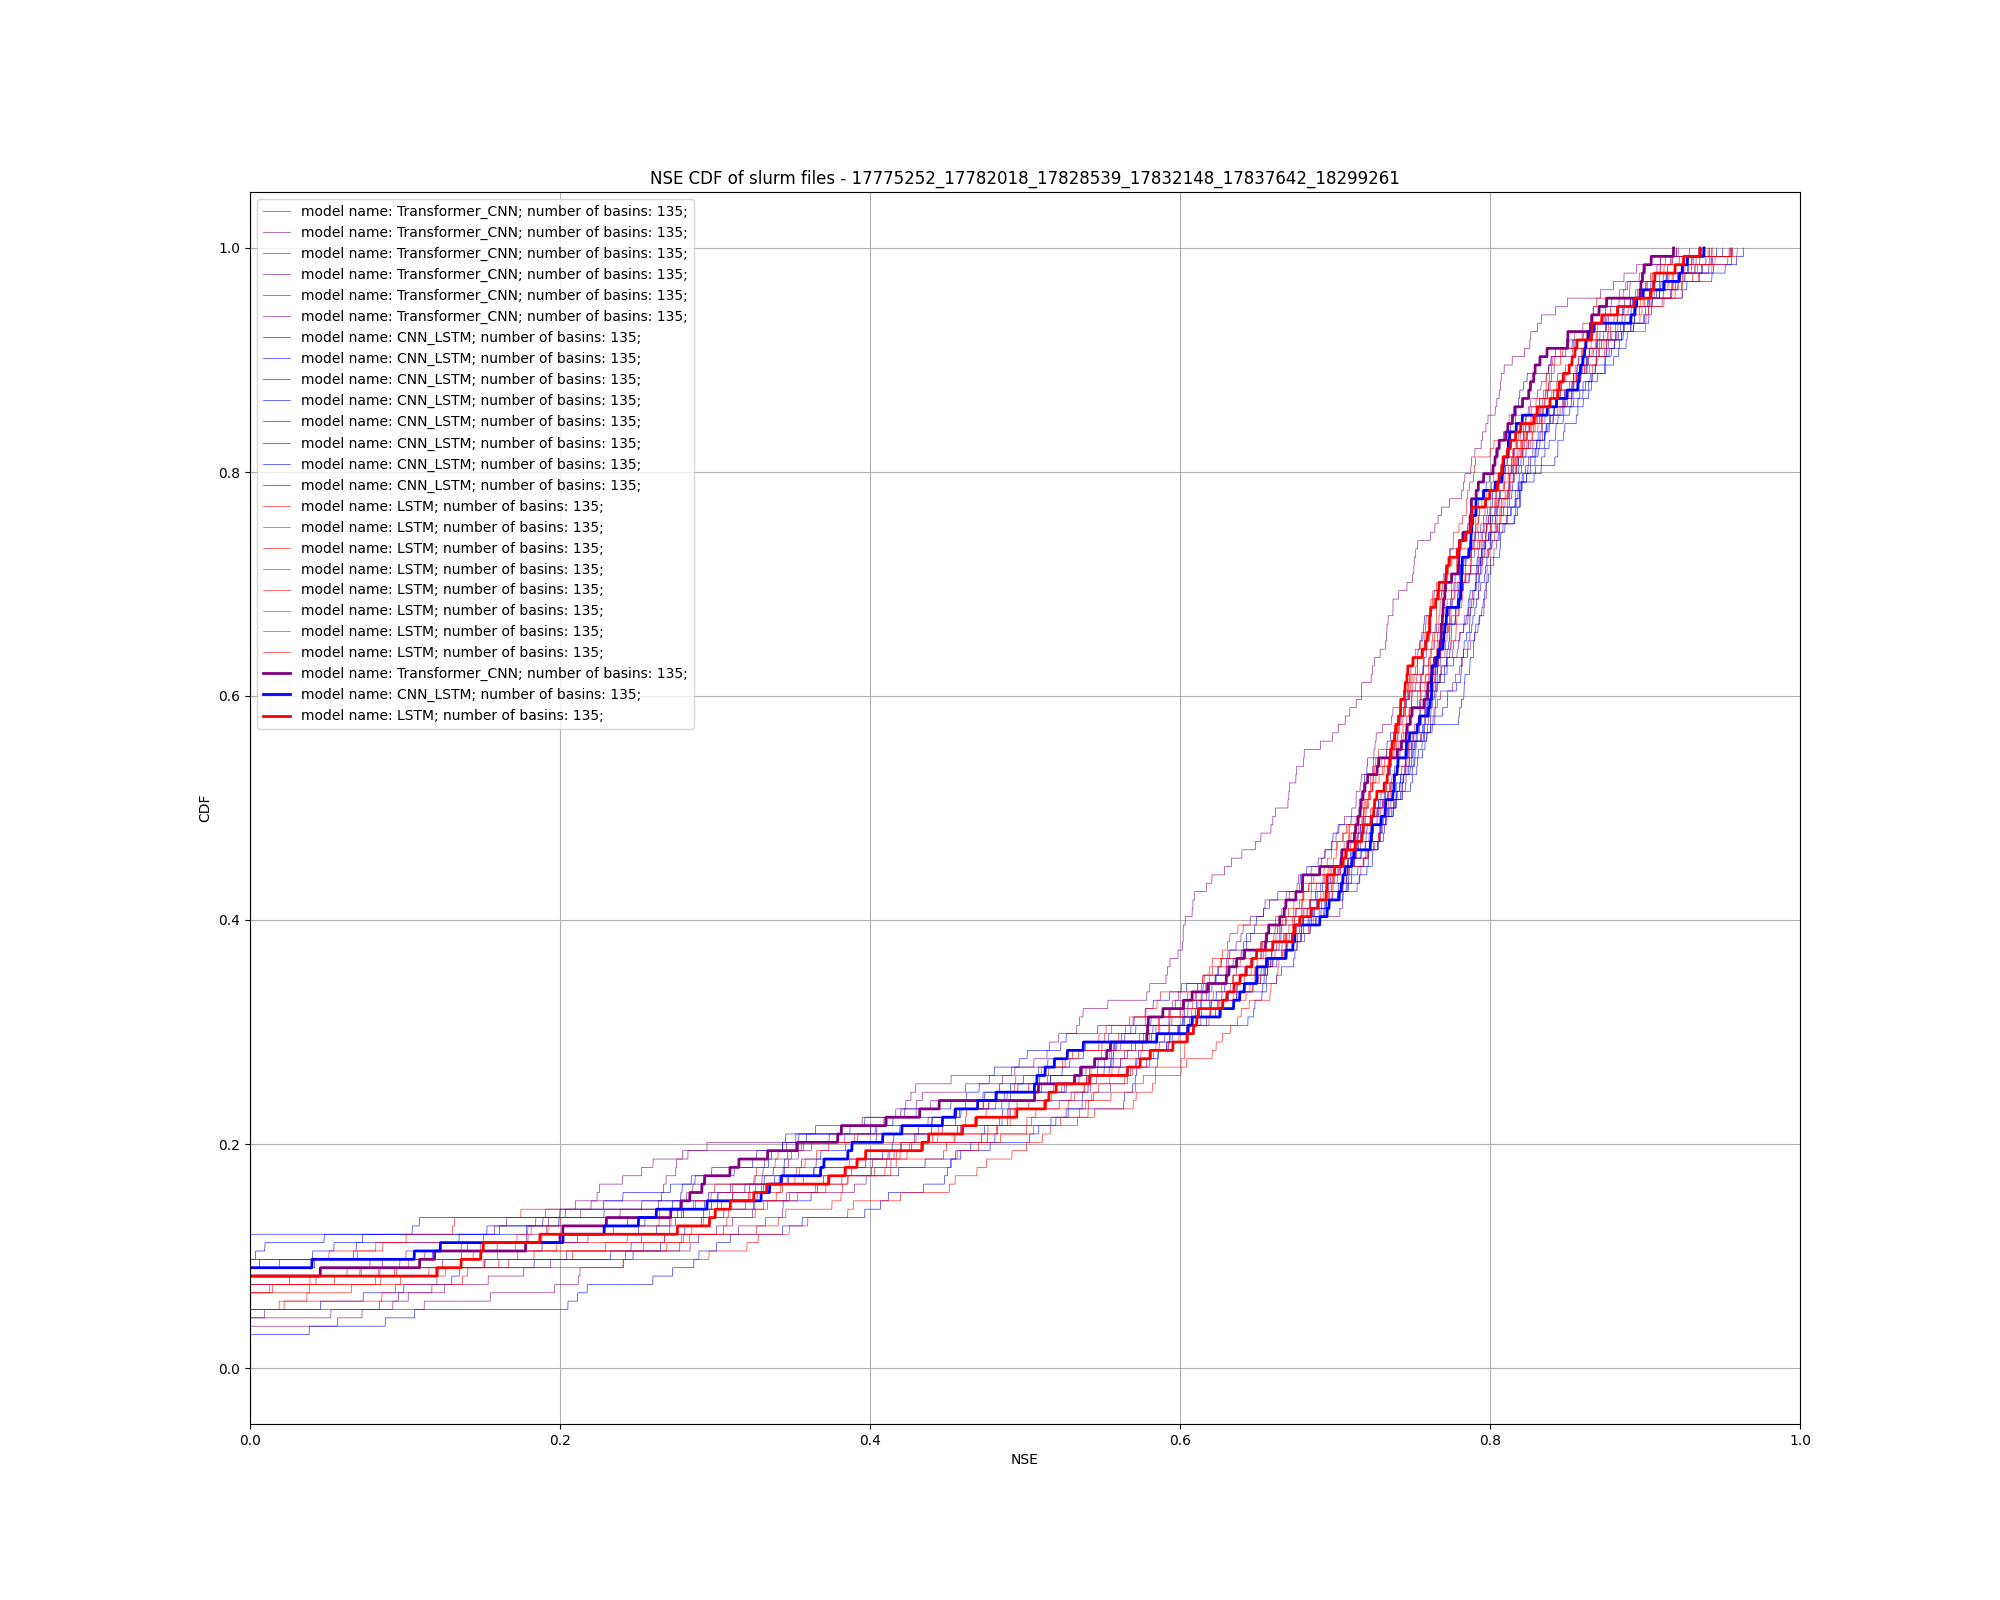
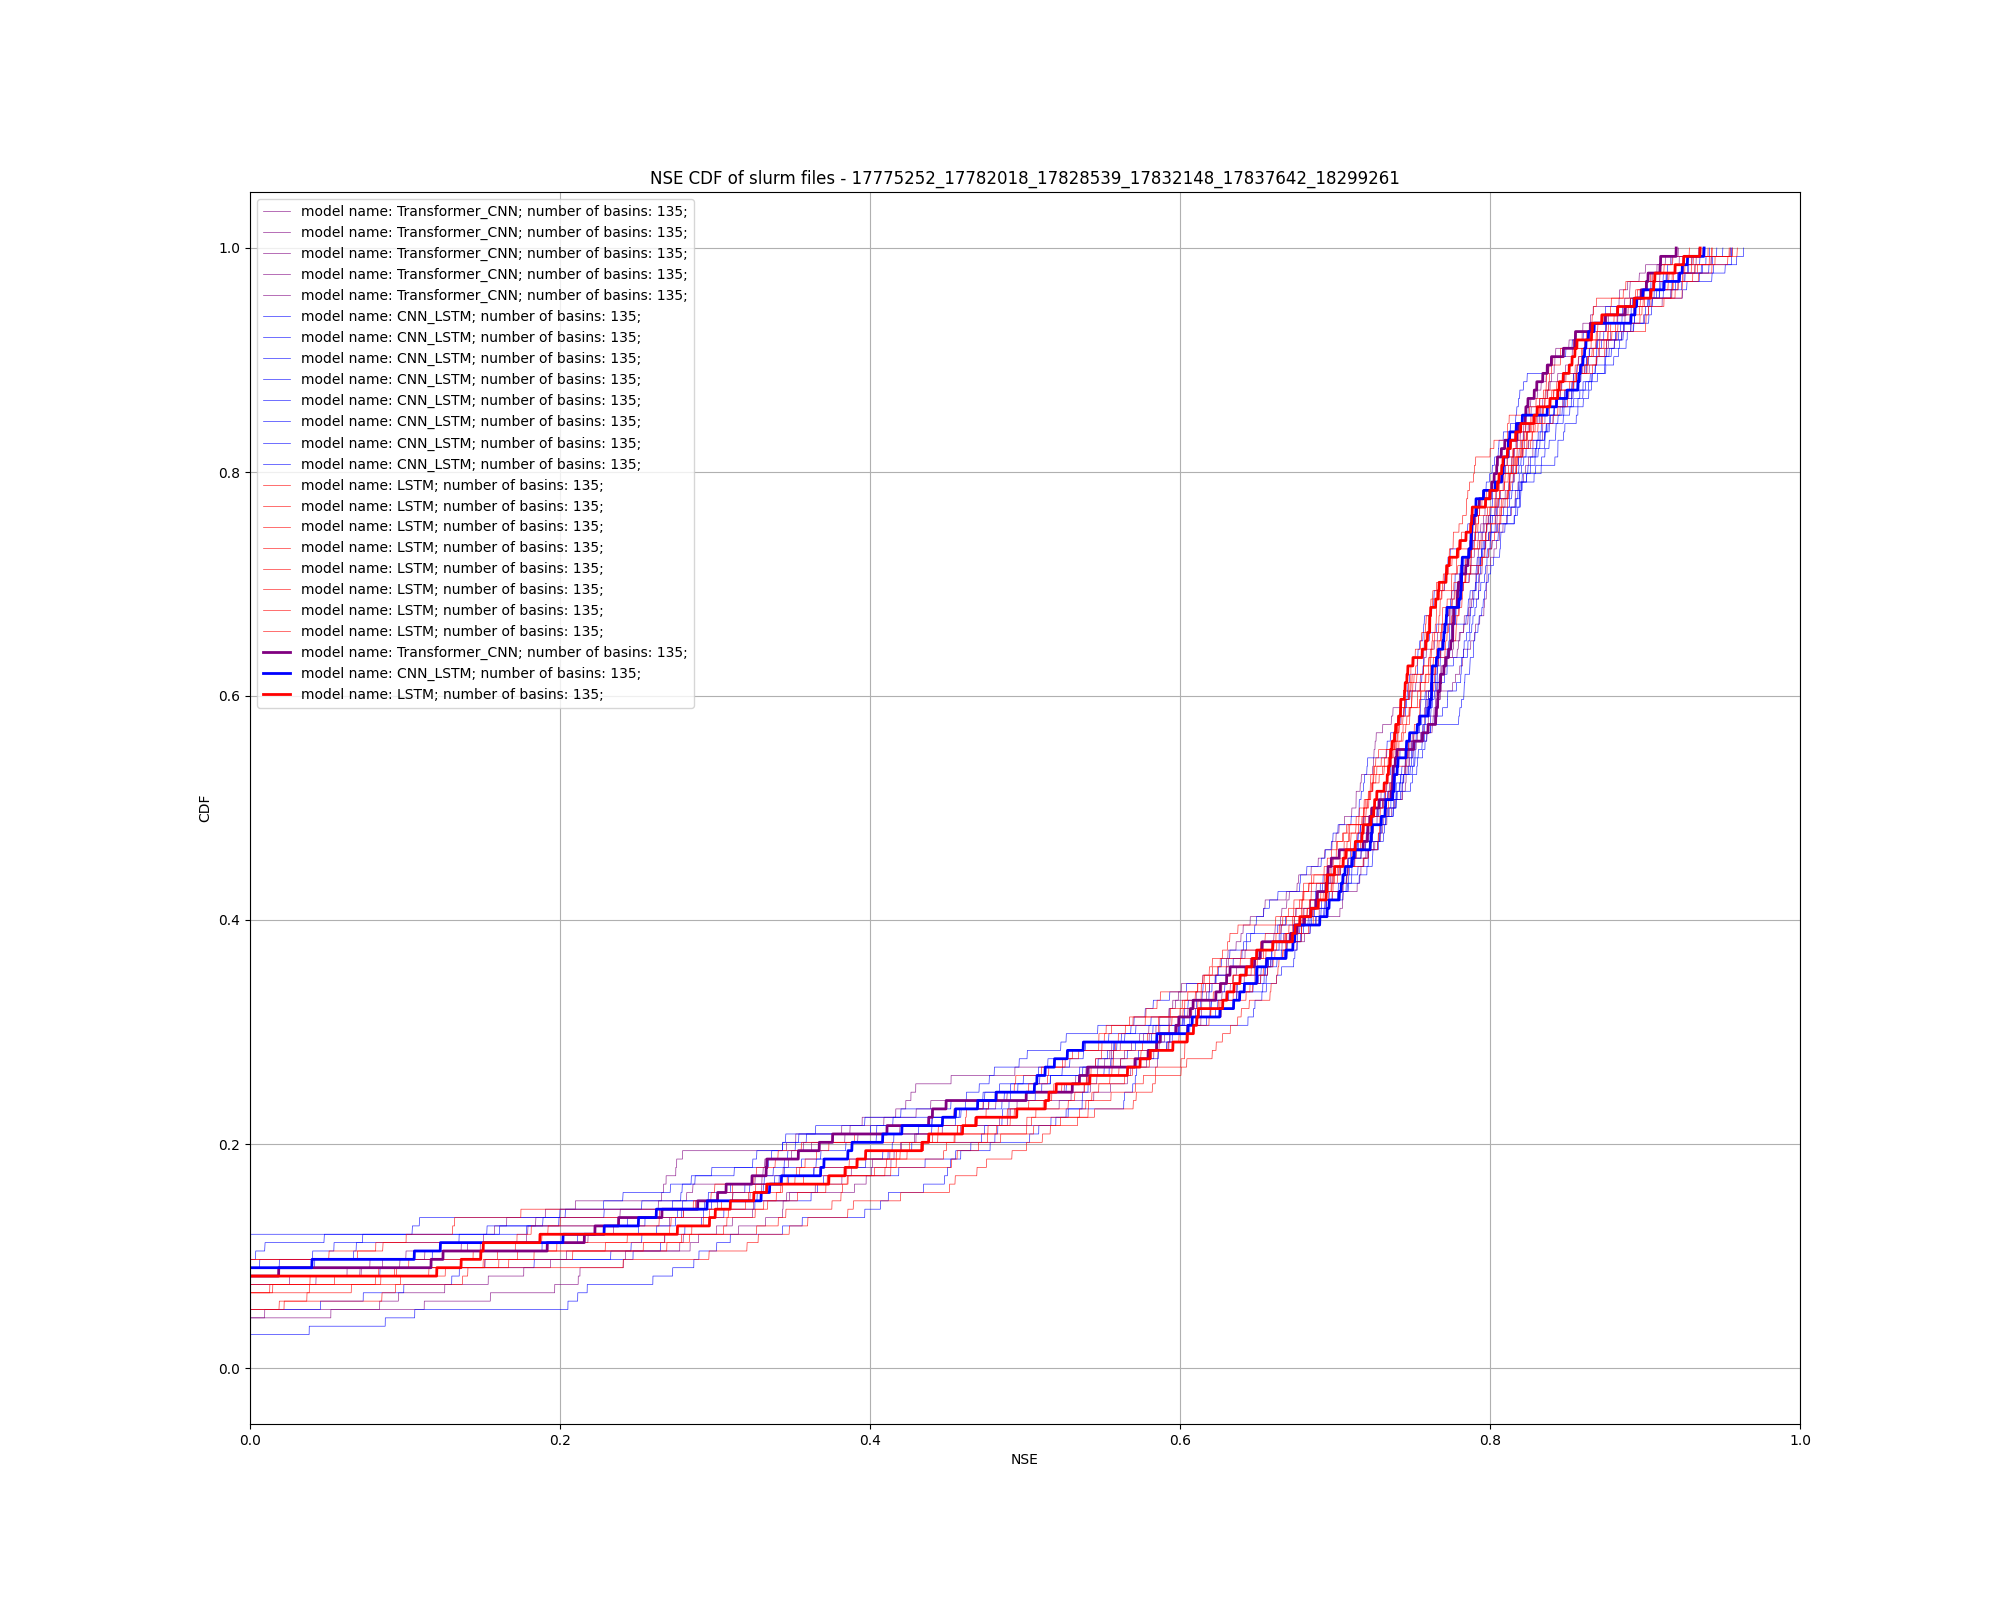
adding plot

diff --git a/src/create_CDF_NSE_comparison_plot_from_slurm_output.py b/src/create_CDF_NSE_comparison_plot_from_slurm_output.py
@@ -150,7 +150,7 @@ def calc_dicts_from_all_runs_and_all_files(input_file_paths):
 
 def plot_NSE_CDF_graphs_my_code():
     input_file_names = ["slurm-17775252.out", "slurm-17782018.out", "slurm-17828539.out", "slurm-17832148.out",
-                        "slurm-17837642.out", "slurm-18299261.out"]
+                        "slurm-17837642.out", "slurm-18299261.out", "slurm-18345948.out"]
     input_file_paths = [Path(f"../slurm_output_files/slurm_files_ensemble_comparison/{file_name}").resolve() for
                         file_name in input_file_names]
     dict_all_runs_from_all_files, dict_avg_runs_from_all_files = calc_dicts_from_all_runs_and_all_files(
